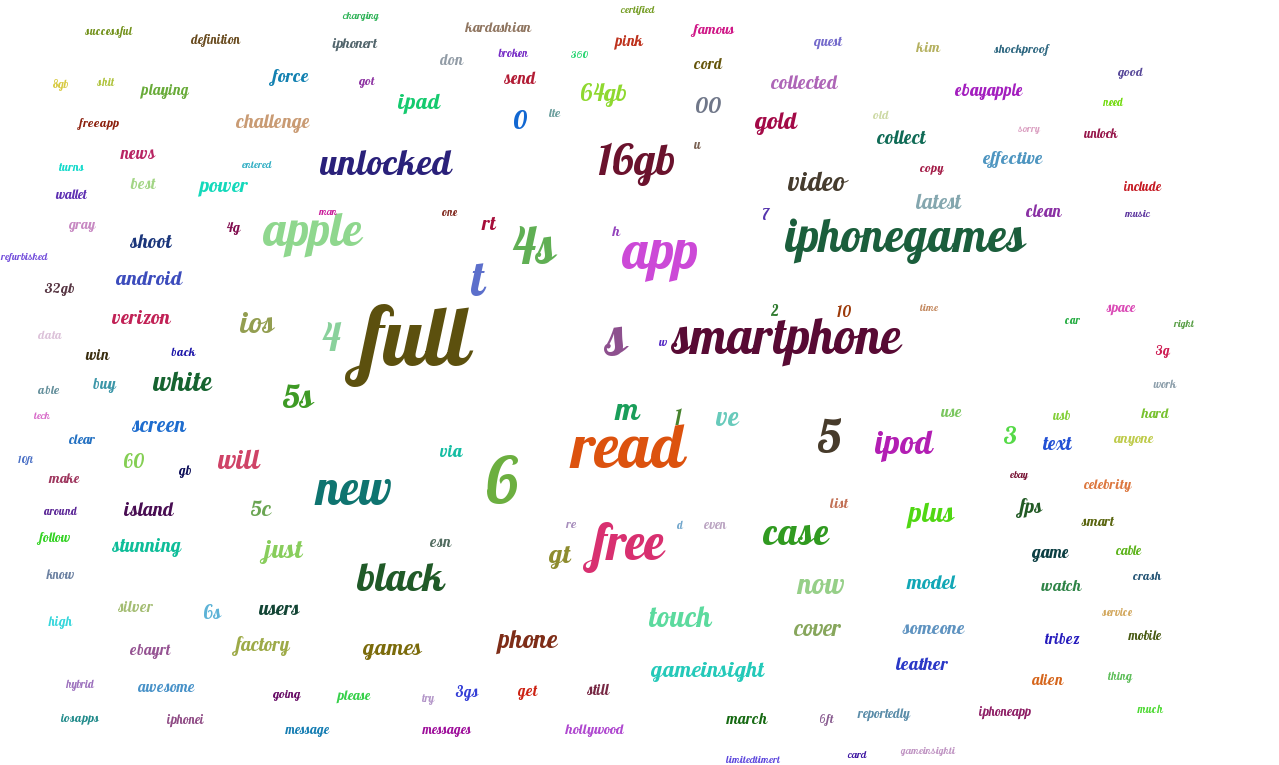
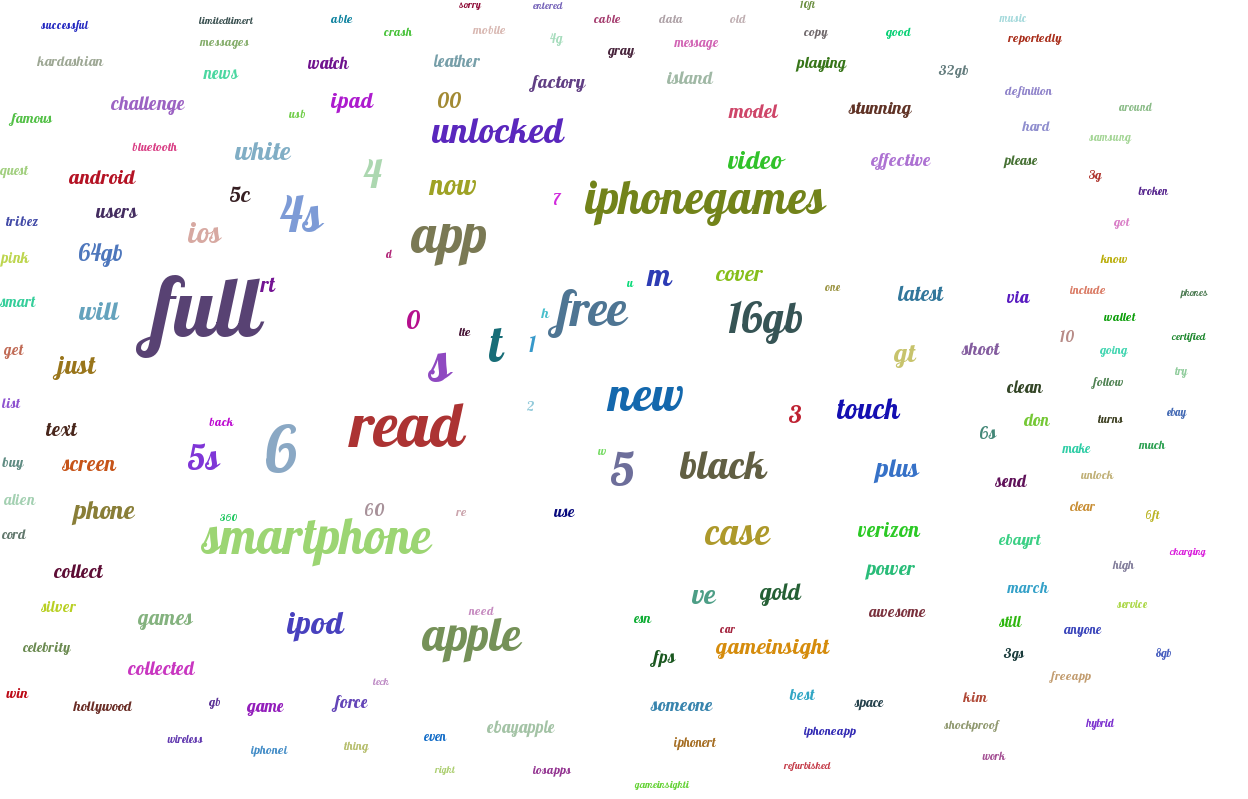
9th commit

diff --git a/TwitterSentimentAnalysis/Output.html b/TwitterSentimentAnalysis/Output.html
@@ -11,12 +11,6 @@
 <script
     src="http://maxcdn.bootstrapcdn.com/bootstrap/3.3.4/js/bootstrap.min.js"></script>
     <style>
-   
-    
-
-    
-
-
     </style>
 </head>
 
@@ -34,20 +28,22 @@
         <div class="col-lg-4">
         <h2>Top 10 tweets</h2>
             <ul class="list-group">
-        <li class="list-group-item">Gimme 10 minutes to come up with a good response to that</li>
-        <li class="list-group-item">I have Pet Shop on my island Now my island is even more awesome iphone iphonegames gameinsight</li>
-        <li class="list-group-item">How to shoot stunning 60 fps video with your iPhone 6 Clear high definition video is all about a frame rate</li>
-        <li class="list-group-item">Ebay Bid Last Second RT Apple Iphone 6 latest Model 64gb Gold at amp t Smartphone Please Favorite amp Sha</li>
-        <li class="list-group-item">Apple iPhone 6 Plus Latest Model 64GB Gold AT amp T Full read by eBay</li>
-        <li class="list-group-item">Microsoft Announces Cortana For iPhone Available Later This Year</li>
-        <li class="list-group-item">Ionno maybe its just this iPhone but shit Its fucking up everywhere But its reliable for what I need it for so I guess Ill stick with it</li>
-        <li class="list-group-item">A New Glitch Was Found That Reboots an I phone Via a Text Message Iphone reboot text rebootiphone glitch BHS</li>
-        <li class="list-group-item">Apple iPhone 4s 16GB Black Verizon Smartphone Clean ESN IMEI Good Shape Full rea</li>
-        <li class="list-group-item">I ve collected 4960 Who can collect more It s a challenge gameinsight iphonegames iphone</li>
+        <li class="list-group-item">I have completed the quest Build a bridge in the iPhone game The Tribez iphonegames gameinsight</li>
+        <li class="list-group-item">Apple iPhone 5s 32GB Space Gray Factory Unlocked Smartphone Full read by eBay</li>
+        <li class="list-group-item">How to shoot stunning 60 fps video with your iPhone 6</li>
+        <li class="list-group-item">I m now a B List celebrity in Kim Kardashian Hollywood You can be famous too by playing on iPhone</li>
+        <li class="list-group-item">Hack Brief There s a New iPhone Text Message Attack WIRED see more</li>
+        <li class="list-group-item">Apple iPhone 6 Latest Model 64GB Silver AT amp T For parts unlock Full read by eBay</li>
+        <li class="list-group-item">Apple iPhone 4s 8GB Black Verizon Smartphone with case and charge cord Full read b</li>
+        <li class="list-group-item">Know anyone in need of a 16GB Green iPhone 5c</li>
+        <li class="list-group-item">RT On eBay Smart Watch Smartphone For IOS amp Android iphone S4 Samsung Wearable SmartWatch http</li>
+        <li class="list-group-item">At least it ain t a 3</li>
             </ul>
         </div>
         <div class="col-lg-4">
+            
             <img src="barchart.png" class="img-responsive">
+            
             </div>
             <div class="col-lg-2">
             
@@ -71,7 +67,7 @@
                     <div class="col-md-6">
                     </br>
                     </br>
-                    <h4>1087</h4>
+                    <h4>1137</h4>
                     </div>
                     </li>
                     <li class="list-group-item row">
@@ -81,7 +77,7 @@
                     <div class="col-md-6">
                     </br>
                     </br>
-                    <h4>13</h4>
+                    <h4>14</h4>
                     </div>
                     </li>
                     <li class="list-group-item row">
@@ -91,7 +87,7 @@
                     <div class="col-md-6">
                     </br>
                     </br>
-                    <h4>91</h4>
+                    <h4>94</h4>
                     </div>
                     </li>
                     <li class="list-group-item row">
@@ -101,7 +97,7 @@
                     <div class="col-md-6">
                     </br>
                     </br>
-                    <h4>482</h4>
+                    <h4>507</h4>
                     </div>
                     </li>
                     <li class="list-group-item row">
@@ -111,7 +107,7 @@
                     <div class="col-md-6">
                     </br>
                     </br>
-                    <h4>371</h4>
+                    <h4>386</h4>
                     </div>
                     </li>
                     <li class="list-group-item row">
@@ -121,7 +117,16 @@
                     <div class="col-md-6">
                     </br>
                     </br>
-                    <h4>130</h4>
+                    <h4>136</h4>
+                    </div>
+                    </li>
+                    <li class="list-group-item row">
+                    <div class="col-md-6"><img src="2.jpg">
+                    </div>
+                    <div class="col-md-6">
+                    </br>
+                    </br>
+                    <h4>Mean</h4>
                     </div>
                     </li>  
                     </ul>
@@ -130,7 +135,10 @@
             </div>
             <div class="row">
             <div class="col-lg-4">
-            <img src="cloud_large.png" class="img-responsive">
+             <img src="piechart.png" class="img-responsive">
+            </div>
+            <div class="col-lg-4">
+             <img src="cloud_large.png" class="img-responsive">
             </div>
             </div>
     </div>

diff --git a/TwitterSentimentAnalysis/twitterstream.py b/TwitterSentimentAnalysis/twitterstream.py
@@ -152,6 +152,17 @@ if __name__ == '__main__':
     print "median: " + str(median)
     print "standatd_deviation: " + str(standard_deviation)
     
+    if 0<mean<0.5:
+        img = """<img src="2.jpg">"""
+    elif 0.5<=mean<1:
+        img = """<img src="1.jpg">"""
+    elif mean ==0:
+        img = """<img src="3.jpg">"""
+    elif -0.5<mean<0:
+        img = """<img src="4.jpg">"""
+    else:
+        img = """<img src="5.jpg">"""  
+                
     people = ('Positive', 'Negative', 'Neutral')
     y_pos = np.arange(len(people))
     sizes=[len(positive)/float(total), len(negative)/float(total), len(neutral)/float(total)]
@@ -189,12 +200,6 @@ if __name__ == '__main__':
 <script
     src="http://maxcdn.bootstrapcdn.com/bootstrap/3.3.4/js/bootstrap.min.js"></script>
     <style>
-   
-    
-
-    
-
-
     </style>
 </head>
 
@@ -225,7 +230,9 @@ if __name__ == '__main__':
             </ul>
         </div>
         <div class="col-lg-4">
+            
             <img src="barchart.png" class="img-responsive">
+            
             </div>
             <div class="col-lg-2">
             
@@ -301,6 +308,15 @@ if __name__ == '__main__':
                     </br>
                     <h4>""" + str(len(awesome)) + """</h4>
                     </div>
+                    </li>
+                    <li class="list-group-item row">
+                    <div class="col-md-6">"""+ img +"""
+                    </div>
+                    <div class="col-md-6">
+                    </br>
+                    </br>
+                    <h4>Mean</h4>
+                    </div>
                     </li>  
                     </ul>
                 </div>
@@ -308,7 +324,10 @@ if __name__ == '__main__':
             </div>
             <div class="row">
             <div class="col-lg-4">
-            <img src="cloud_large.png" class="img-responsive">
+             <img src="piechart.png" class="img-responsive">
+            </div>
+            <div class="col-lg-4">
+             <img src="cloud_large.png" class="img-responsive">
             </div>
             </div>
     </div>
